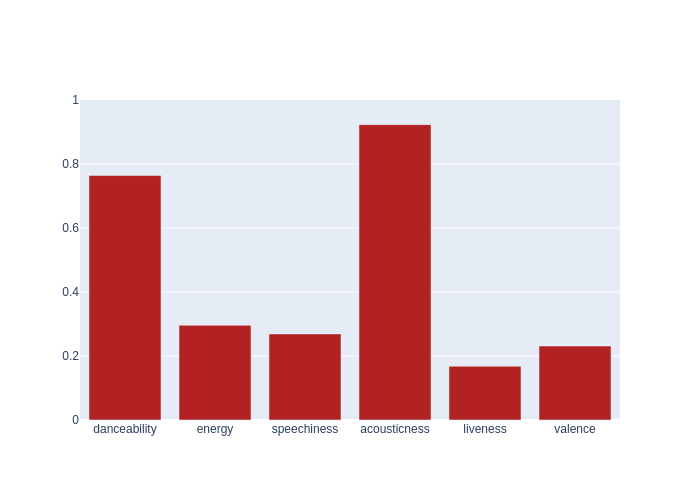
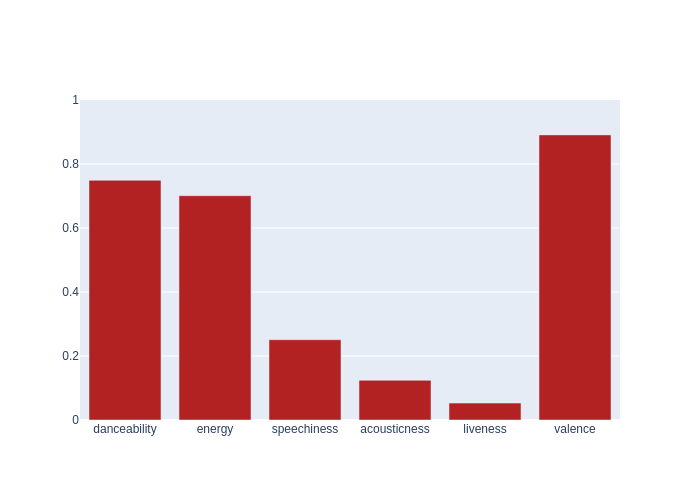
Automated README update

diff --git a/README.md b/README.md
@@ -4,7 +4,7 @@ Automated music metrics for fun, updated hourly.
 
 ## Spotify
 
-- currently listening to **Rxseboy - When We Were 16**
+- currently listening to **Kid Quill - Playlist**
 
 - **909** liked songs
 - **151** playlists
